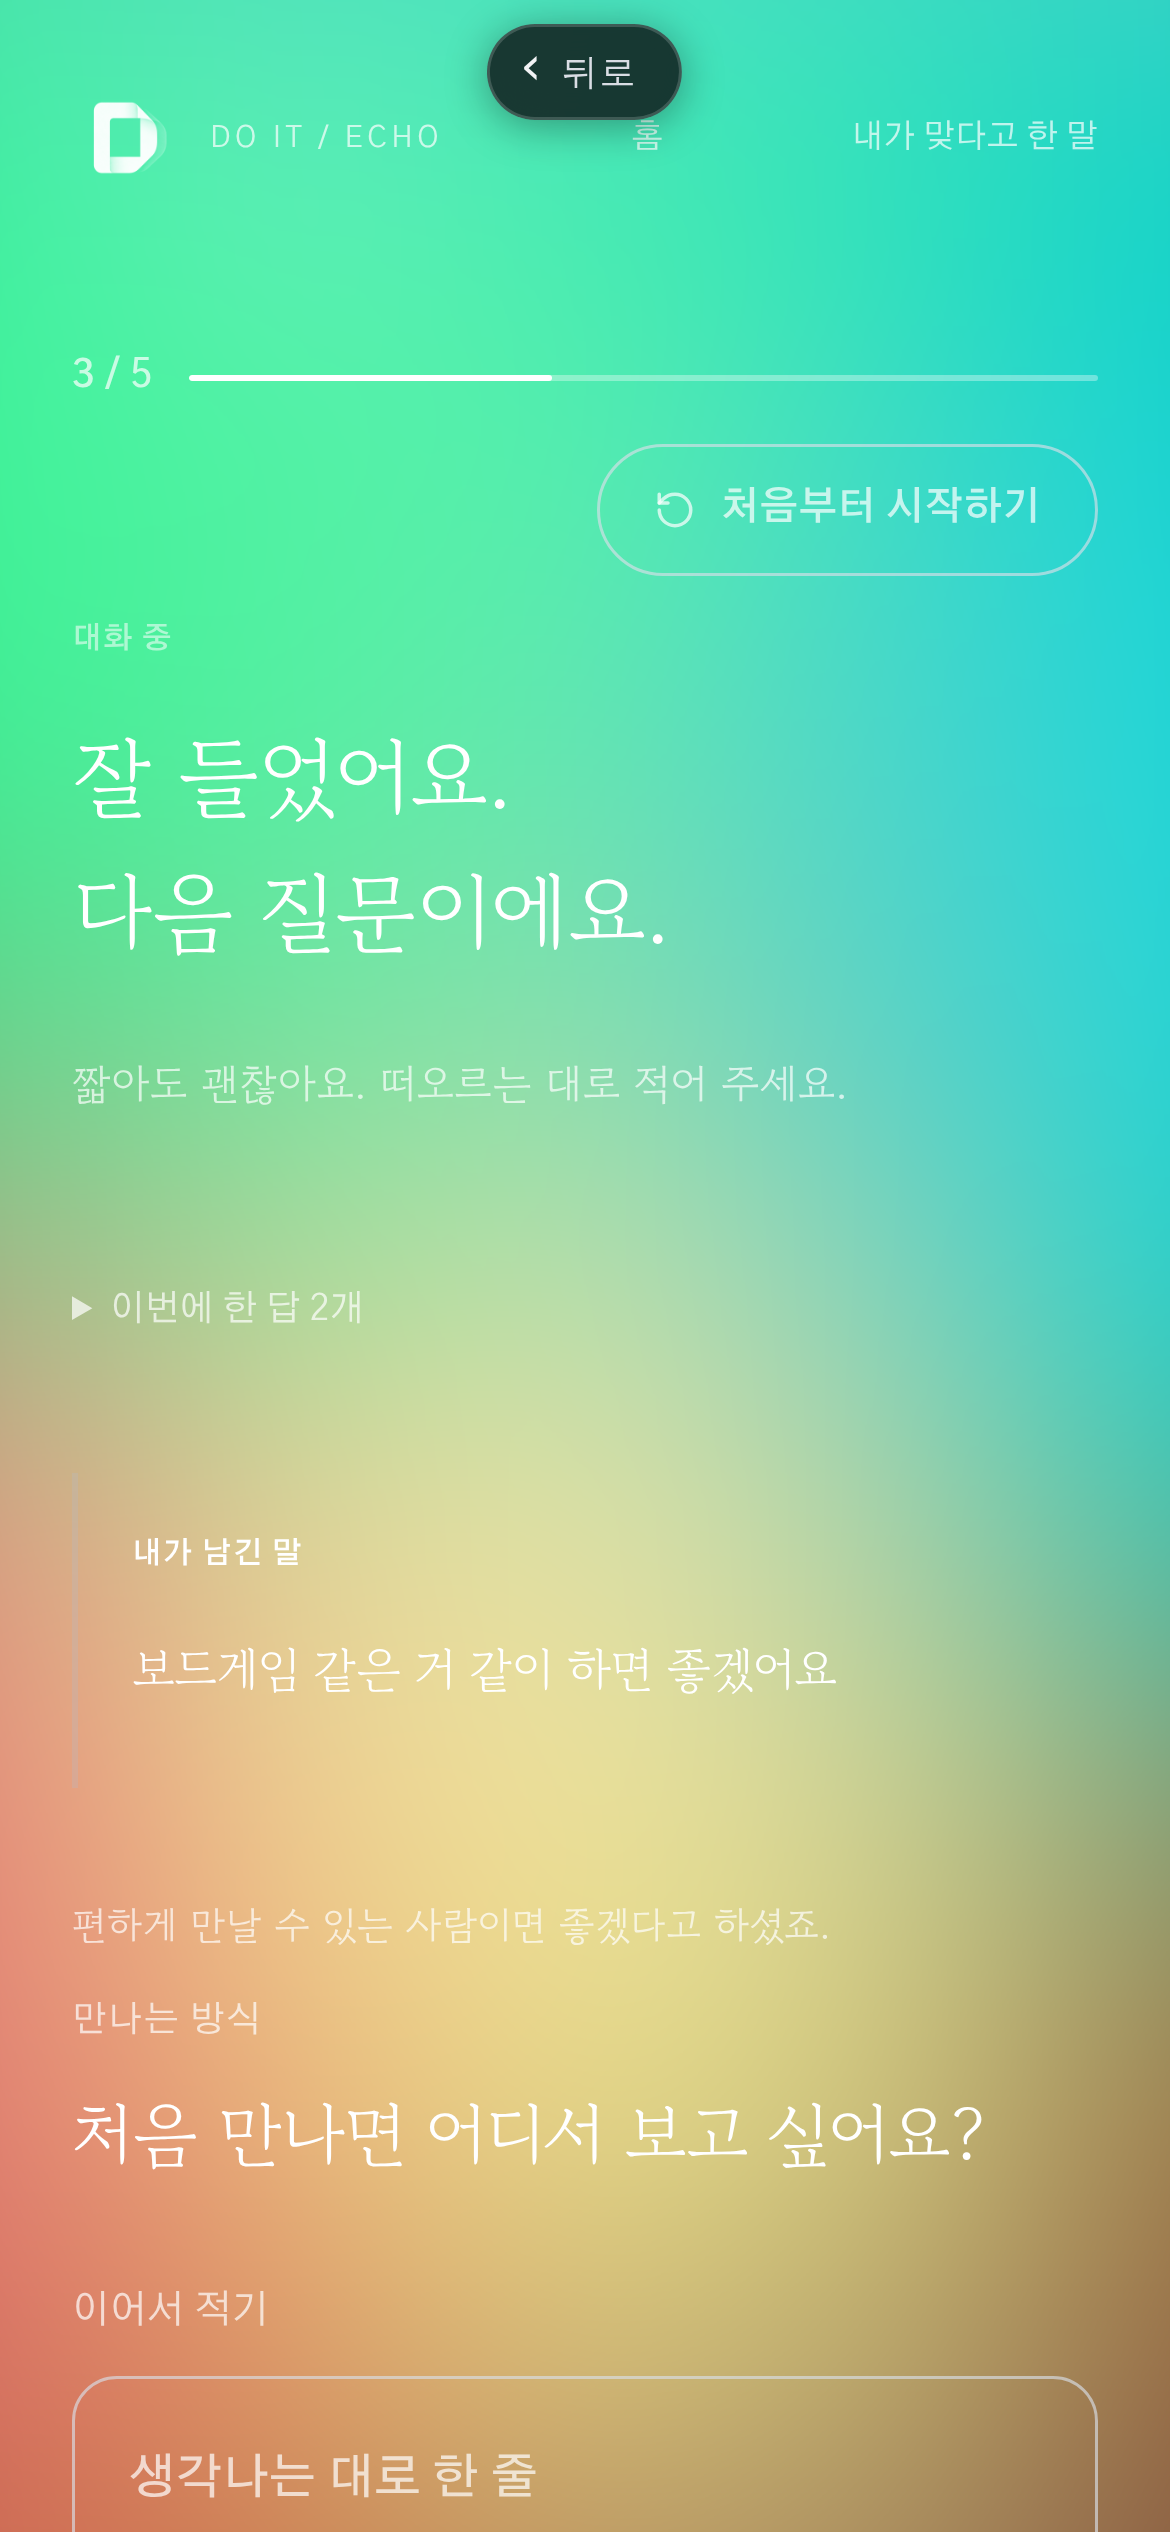
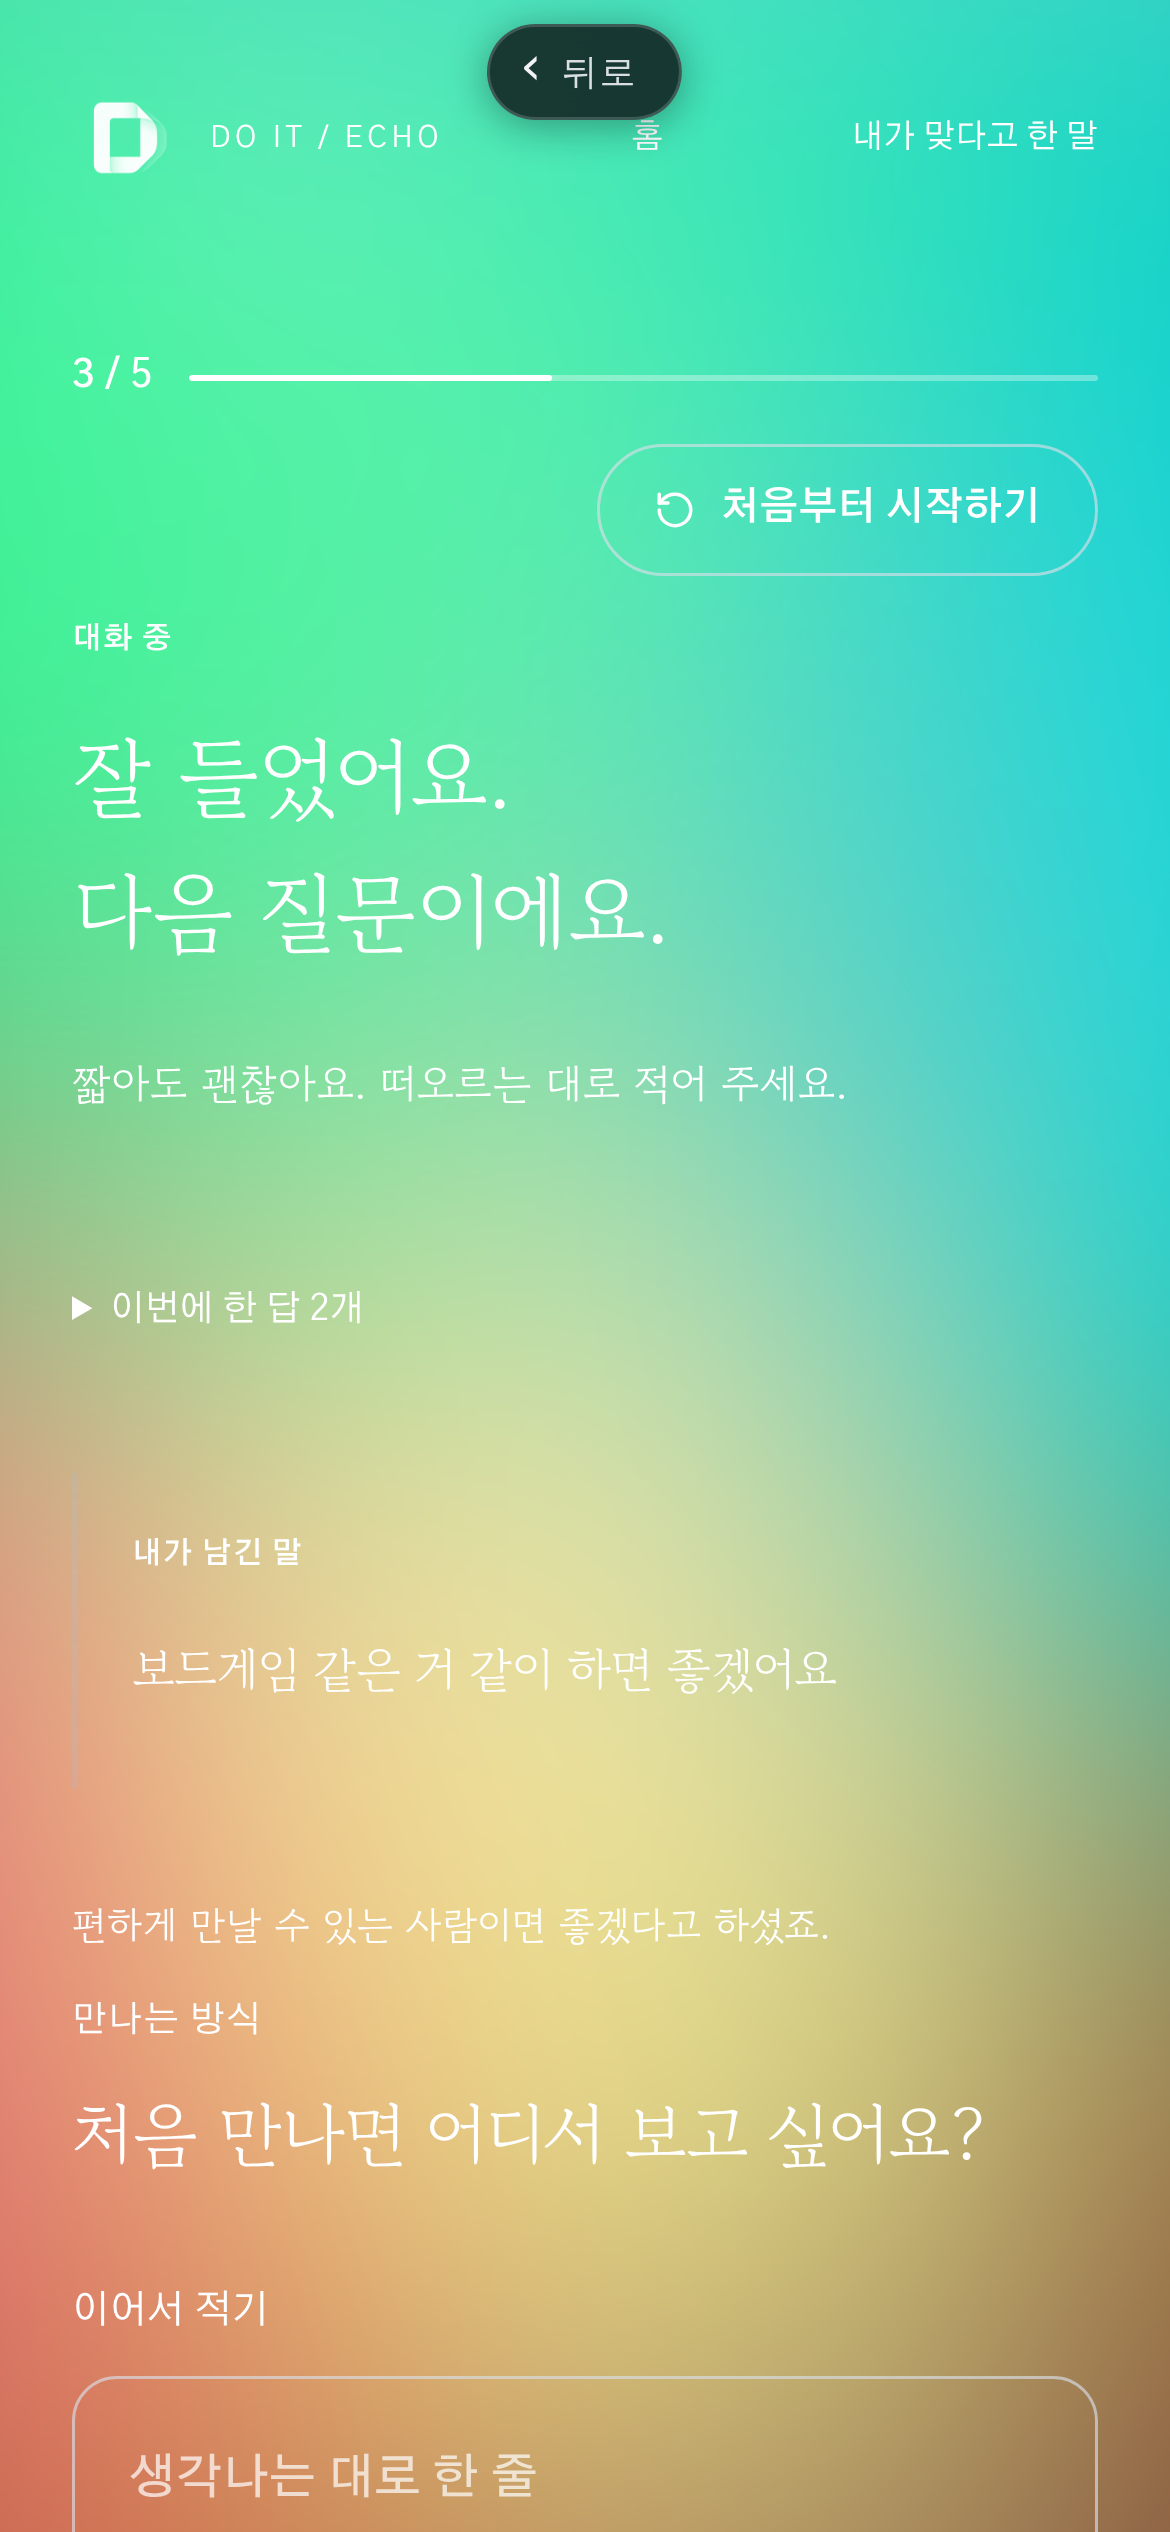
Conversation: unify all text to #fff measured from 대표 reference image
Claude-Session: https://claude.ai/code/session_014JuYeorypLuXLiCzgFASRi

diff --git a/product/src/doit/components/feature/core-conversation.css b/product/src/doit/components/feature/core-conversation.css
@@ -143,16 +143,19 @@
   --conversation-surface-bg:transparent;
   --conversation-surface-border:#d9dfe8a6;
   --conversation-text:#fff;
-  --conversation-text-secondary:rgb(255 255 255/.7);
-  --conversation-text-secondary-on-pastel:rgb(255 255 255/.7);
-  --conversation-text-strong:rgb(255 255 255/.9);
-  --conversation-text-eyebrow:rgb(255 255 255/.55);
+  --conversation-text-secondary:#fff;
+  --conversation-text-secondary-on-pastel:#fff;
+  --conversation-text-strong:#fff;
+  --conversation-text-eyebrow:#fff;
+  --conversation-text-placeholder:rgb(255 255 255/.7);
   --conversation-text-halo:none;
 }
 /* ⑦ 2026-09-25 글자색 = 1번 이미지(옛 홈 첫 화면 「오늘 내 마음의 날씨는 어때?」, src/pages/home/components/HeroSection.tsx)의 코드 값 그대로
    (대표 「글씨색을 1번 이미지색으로」): 제목 text-white(#fff) · 「진짜 나를 찾아줘」 text-white/90 · 부문구 text-white/70 · 「ECHO」 text-white/55.
    그 화면 글자에는 그림자가 없다 → 검은 그림자(halo)도 없앤다(none). 전: 2순위 #dbe0e7 / #f2f3f5 + 검은 그림자 3겹.
-   글꼴·크기·굵기·문구·배치는 그대로(글꼴 변경은 대표 승인 전). 표준 대비는 더 낮아진다 — 보고서에 숫자로 적는다. */
+   글꼴·크기·굵기·문구·배치는 그대로(글꼴 변경은 대표 승인 전). 표준 대비는 더 낮아진다 — 보고서에 숫자로 적는다.
+   ⑧ 같은 날 대표 「그냥 이미지 글씨색 똑같이」 → 이미지 속 글씨를 직접 재니 제목·「시작하기」 = #ffffff → 화면 글씨를 모두 #fff 하나로 통일.
+   (입력창 안의 흐린 안내 글씨만 적은 글과 구분되게 white/.7 로 둔다.) */
 /* 판 = 투명(2026-09-25 대표 「TRANSPARENT BUTTON / SURFACE PATCH」: 검정·회색 채움과 유리 모두 없앤다. 파스텔이 그대로 이어져 보이게).
    바탕 = transparent · 흐림 없음 · 테두리 = 원래 「처음부터 시작하기」 테두리 #d9dfe8a6(버튼인 줄 알 수 있게). 크기·둥글기·자리·글자는 그대로. */
 .echo-dialogue.echo-dialogue--pastel :is(textarea,.echo-secondary,.echo-restart-pill,.echo-opening-tile,.echo-brief,.echo-done,.echo-synthesis,.echo-restart,.echo-pause,.echo-insight,.echo-editor,.echo-reactions button:not(:first-child)){background:var(--conversation-surface-bg);border-color:var(--conversation-surface-border);box-shadow:none;-webkit-backdrop-filter:none;backdrop-filter:none}
@@ -160,18 +163,18 @@
 .echo-dialogue.echo-dialogue--pastel :is(.echo-opening-tile.is-selected,.echo-restart-pill:not(:disabled):hover,.echo-reactions button:not(:first-child):not(:disabled):hover){background:transparent}
 .echo-dialogue.echo-dialogue--pastel .echo-opening-tile.is-selected{border-color:#fff;box-shadow:inset 0 0 0 1px #fff} /* 바탕 차이가 없어져 선택 표시는 테두리로만: 흰 테두리 + 안쪽 1px(크기·자리 변화 0) */
 .echo-dialogue.echo-dialogue--pastel textarea:focus{border-color:#c2cfdd}
-/* 판 안 글자: 1순위 흰색 · 2순위 white/.7 (⑦ 1번 이미지 값) */
+/* 판 안 글자: 모두 흰색(⑧) */
 .echo-dialogue.echo-dialogue--pastel :is(textarea,.echo-secondary,.echo-opening-tile,.echo-opening-tile-label,.echo-brief-lead,.echo-brief-lead b,.echo-brief b,.echo-done-mark,.echo-done-lead,.echo-done-next b,.echo-synthesis-items p,.echo-synthesis-items button,.echo-insight h2,.echo-editor h2,.echo-reactions button:not(:first-child)){color:var(--conversation-text)}
 .echo-dialogue.echo-dialogue--pastel :is(.echo-restart-pill,.echo-restart-pill svg,.echo-opening-tile-desc,.echo-brief li,.echo-brief li span,.echo-brief-fine,.echo-done-next li,.echo-synthesis-items li>span,.echo-synthesis-items button span,.echo-insight-label,.echo-editor-footer>span,.echo-editor-footer>button,.echo-defer,.echo-context,.echo-done .echo-fine){color:var(--conversation-text-secondary)}
 .echo-dialogue.echo-dialogue--pastel .echo-brief li span{border-color:var(--conversation-surface-border)}
-.echo-dialogue.echo-dialogue--pastel .echo-opening-tile.is-selected .echo-opening-tile-desc{color:var(--conversation-text-strong)} /* 선택 카드 설명은 한 단계 밝게 = 1번 이미지 「진짜 나를 찾아줘」 text-white/90 */
-.echo-dialogue.echo-dialogue--pastel textarea::placeholder{color:var(--conversation-text-secondary)}
-/* 파스텔 위 글자: 1순위 흰색 · 2순위 white/.7 · 머리말 white/.55 · 그림자 없음(⑦). 판 안(:not 목록)은 제외 */
+.echo-dialogue.echo-dialogue--pastel .echo-opening-tile.is-selected .echo-opening-tile-desc{color:var(--conversation-text-strong)} /* 선택 카드 설명도 흰색(⑧) */
+.echo-dialogue.echo-dialogue--pastel textarea::placeholder{color:var(--conversation-text-placeholder)}
+/* 파스텔 위 글자: 모두 흰색 · 그림자 없음(⑦⑧). 판 안(:not 목록)은 제외 */
 .echo-dialogue.echo-dialogue--pastel :is(h1,.echo-question,.echo-original>p,.echo-draft li p,.echo-memory p,.echo-error,.echo-error p):not(:is(.echo-brief,.echo-done,.echo-synthesis,.echo-restart,.echo-pause,.echo-insight,.echo-editor,.echo-opening-tile) *){color:var(--conversation-text);-webkit-text-fill-color:var(--conversation-text);text-shadow:var(--conversation-text-halo)}
 .echo-dialogue.echo-dialogue--pastel :is(.echo-lead,.echo-ack,.echo-topic,.echo-history summary,.echo-history button,.echo-notice,.echo-busy,.echo-thinking p,.echo-fine,.echo-text-button,.echo-composer label,.echo-composer-footer>span,.echo-steps-count,.echo-steps-count em,.echo-dialogue-header>span,.echo-dialogue-header>a,.echo-draft li span,.echo-memory summary,.echo-memory>div>span,.doit-symbol-loader-label):not(:is(.echo-brief,.echo-done,.echo-synthesis,.echo-restart,.echo-pause,.echo-insight,.echo-editor,.echo-opening-tile) *){color:var(--conversation-text-secondary-on-pastel);-webkit-text-fill-color:var(--conversation-text-secondary-on-pastel);text-shadow:var(--conversation-text-halo)}
 .echo-dialogue.echo-dialogue--pastel .echo-eyebrow:not(:is(.echo-brief,.echo-done,.echo-synthesis,.echo-restart,.echo-pause,.echo-insight,.echo-editor,.echo-opening-tile) *){color:var(--conversation-text-eyebrow);-webkit-text-fill-color:var(--conversation-text-eyebrow);text-shadow:var(--conversation-text-halo)}
 .echo-dialogue.echo-dialogue--pastel h1{background-image:none;animation:none}
-/* 진행 표시: 숫자는 2순위 white/.7, 채움은 흰색(바탕 white/.35 와 구분되게). 막대 바탕 white/.35 · 그림자 없음(⑦, 전에는 막대·숫자에 옅은 검은 그림자) */
+/* 진행 표시: 숫자·채움 흰색(바탕 white/.35 와 구분되게). 막대 바탕 white/.35 · 그림자 없음(⑦, 전에는 막대·숫자에 옅은 검은 그림자) */
 .echo-dialogue.echo-dialogue--pastel .echo-steps-bar{background:rgb(255 255 255/.35)}
 .echo-dialogue.echo-dialogue--pastel .echo-steps-bar i{background:var(--conversation-text);background-image:none;box-shadow:none}
 /* 보내기 버튼: 회색 그라데이션 채움만 없앤다(아이콘 색·크기·자리 그대로) */

diff --git a/CLAUDE.md b/CLAUDE.md
@@ -104,3 +104,4 @@ DB·RLS·마이그레이션 실행 / 서버 함수 운영 배포 / 결제 설정
 - **대화 화면 버튼·입력창 투명(2026-09-25, 근거 = 대표 「TRANSPARENT BUTTON / SURFACE PATCH · FINAL」). 로컬만 — 운영 배포 0, 글씨·파스텔·배치·Agent·Sound 변경 0.** 보고 `docs/claude-final-review-20260916/PATCH-20260925-transparent-surface/TRANSPARENT_SURFACE_보고_20260925.md`. 어두운 유리(rgb(23 26 32/.65)+흐림 10px)를 없애고 입력창·하단 카드·처음부터·목적 카드·안내/확인 카드·보내기 버튼 바탕 = transparent · 흐림 없음 · 테두리 #d9dfe8a6(원래 처음부터 테두리) · 선택 카드는 흰 테두리+안쪽 1px. 글씨 계산값 전후 차이 0(18개 선택자). 메탈 실버 주요 버튼은 밝은 브랜드 버튼이라 그대로(대표 결정). **정직한 결과: 판 안 글씨 115개 모두 대비 미달(1.0~1.49, 기준 4.5) — 흰·연회색 글씨가 밝은 파스텔 위에 그림자 없이 놓임. 권장 = 파스텔 글자와 같은 그림자를 버튼 글씨에도(글씨 변경이라 대표 승인 필요).** 검사(가짜 서버 기준) = 530개 중 525 통과/0 실패/미확정 5, 새 검사 5 + 역검사 5/5, 기능 회귀 60/60, 히어로 픽셀 차이 0, 캡처 40장 넘침 0. 앱 ZIP 후보 `7c9ad608…`(149개, `3c75eb1a…` 대체). **실기기 미확인 — Conversation P0 = FAIL 유지.**
 - **투명 판 글씨 가독성 비교 → 목표 동시 충족 불가 · STOP(2026-09-25, 근거 = 대표 「TRANSPARENT SURFACE · TEXT LEGIBILITY FINAL PATCH」). 제품 코드 변경 0 · 운영 배포 0.** 보고 `docs/claude-final-review-20260916/PATCH-20260925-text-legibility-stop/TEXT_LEGIBILITY_STOP_보고_20260925.md`. 판 안 흰 글씨에 얇은 테두리(paint-order stroke fill)+최소 그림자 5단계(0.3~1.5px)를 검사용으로만 덧씌워 배율 3배·360/390/430·5상태·82곳 실측(가짜 서버 기준): 표준(WCAG, 글자↔파스텔) 대비는 모든 단계 1.00~1.43 그대로(민트 최저 1.03 · 노랑 1.00 · 코랄 표본 0 = 확인 불가). 글자 둘레 1기기픽셀 기준 4.5 는 K4(1px #000 + 2px 그림자)부터 대부분 넘지만 원래 해상도 캡처로 자막처럼 두꺼움(지시 5번 FAIL), K3 이하는 전부 미달. → 흰 글씨 + 투명 판 + 4.5:1 동시 충족 불가. 검정 판·테두리 제품 반영 0, 앱 ZIP `7c9ad608…` 운영 후보 확정 안 함. 대표 결정 대기((가) 옅은 바탕 (나) 판 안 글씨 어둡게 (다) K4 테두리 감수 (라) 그대로). **Conversation P0 = FAIL 유지.**
 - **대화 화면 글씨색·배경색 = 대표 이미지 그대로(2026-09-25, 근거 = 대표 「비교하지 말고 글씨색과 배경색 내가 올린 이미지 그대로 반영해 통일시켜 … 질문 구간부터 … 글씨색이랑 배경만」). 로컬만 — 운영 배포 0.** 보고 `docs/claude-final-review-20260916/PATCH-20260925-image1-color/IMAGE1_COLOR_보고_20260925.md`. 배경 = 이미지(옛 홈 「오늘 내 마음의 날씨는 어때?」)를 5×11 칸으로 재어 줄마다 가로 그라데이션 + 40px 흐림. **내 실수**: 처음엔 이미지의 색 설명(ICC)을 무시하고 날값을 읽어 흐린 색을 옮겼다 → Chrome 색 변환 기준으로 다시 잼(예 #6ce2ad → #43e0a9). 글씨 = HeroSection.tsx 코드 값 그대로(흰색 · 흰색 90/70/55%), 검은 그림자 삭제. 화면에 보이는 글씨는 세 가지 흰색뿐(예외: 밝은 은색 주요 버튼 안 어두운 글씨). 글꼴·배치·버튼 모양·히어로 변경 0. 검사(가짜 서버 기준) = 530개 중 525 통과/0 실패/미확정 5, 회귀 60/60, 히어로 픽셀 차이 0. 앱 ZIP 후보 `67ca0997…`(`7c9ad608…` 대체). **실기기 미확인 — Conversation P0 = FAIL 유지.**
+- **대화 화면 글씨 = 흰색 하나로 통일(2026-09-25, 대표 「비교해도 안 맞아 그냥 이미지 글씨색 똑같이」).** 이미지 속 글씨 실측(색 변환 적용): 제목·「시작하기」 `#ffffff` → 대화 화면 글씨 전부 `#fff`(흰색 90/70/55% 구분 삭제, 검은 그림자 없음 유지). 예외: 입력창 흐린 안내 글씨 white/.7 · 은색 주요 버튼 안 어두운 글씨. 검사(가짜 서버 기준) = 530개 중 525 통과/0 실패/미확정 5, 회귀 60/60, 히어로 픽셀 차이 0. 앱 ZIP 후보 `42df9c26…`(`67ca0997…` 대체). 로컬만 — 운영 배포 0. **실기기 미확인.**

diff --git a/docs/claude-final-review-20260916/PATCH-20260925-image1-color/IMAGE1_COLOR_보고_20260925.md b/docs/claude-final-review-20260916/PATCH-20260925-image1-color/IMAGE1_COLOR_보고_20260925.md
@@ -40,3 +40,13 @@
 
 ## 캡처
 `screens/390-질문.png` · `screens/390-첫질문.png`
+
+## 추가 (같은 날) — 글씨를 흰색 하나로 통일
+근거: 대표 「비교해도 안 맞아. 그냥 이미지 글씨색 똑같이 하면 된다」.
+- 이미지 속 글씨를 직접 재었다(Chrome 색 변환 적용, 글자 속 가장 밝은 3% 가운데 값): 제목 `#ffffff` · 「시작하기」 `#ffffff` · 「진짜 나를 찾아줘」 `#f1fcf7` · 「내 마음을 알면…」 `#f5f9dc` · 「로그아웃」 `#eaffff`.
+- 그래서 대화 화면 글씨를 **모두 `#fff` 하나**로 맞췄다(앞서 넣은 흰색 90·70·55% 구분 삭제). 검은 그림자 없음은 그대로.
+- 예외 2개: 입력창 안 흐린 안내 글씨(「생각나는 대로 한 줄」)는 적은 글과 구분되게 흰색 70% · 밝은 은색 주요 버튼 안 어두운 글씨는 그대로.
+- 화면에서 실제로 읽은 글씨 색(가짜 서버, 7상태 × 360·390px): `rgb(255,255,255)` 하나 + 은색 버튼 안 글씨.
+- 검사(가짜 서버 기준): 530개 중 525 통과 / 0 실패 / 미확정 5 · type-check·lint·build 2·audit 0 · 기능 회귀 60/60 · 히어로 픽셀 차이 0.
[1 lines of base64/hex data omitted]
+- 캡처 `screens/` 두 장은 이 판으로 다시 찍었다. **대표 실기기 미확인 — "완료" 아님.**
